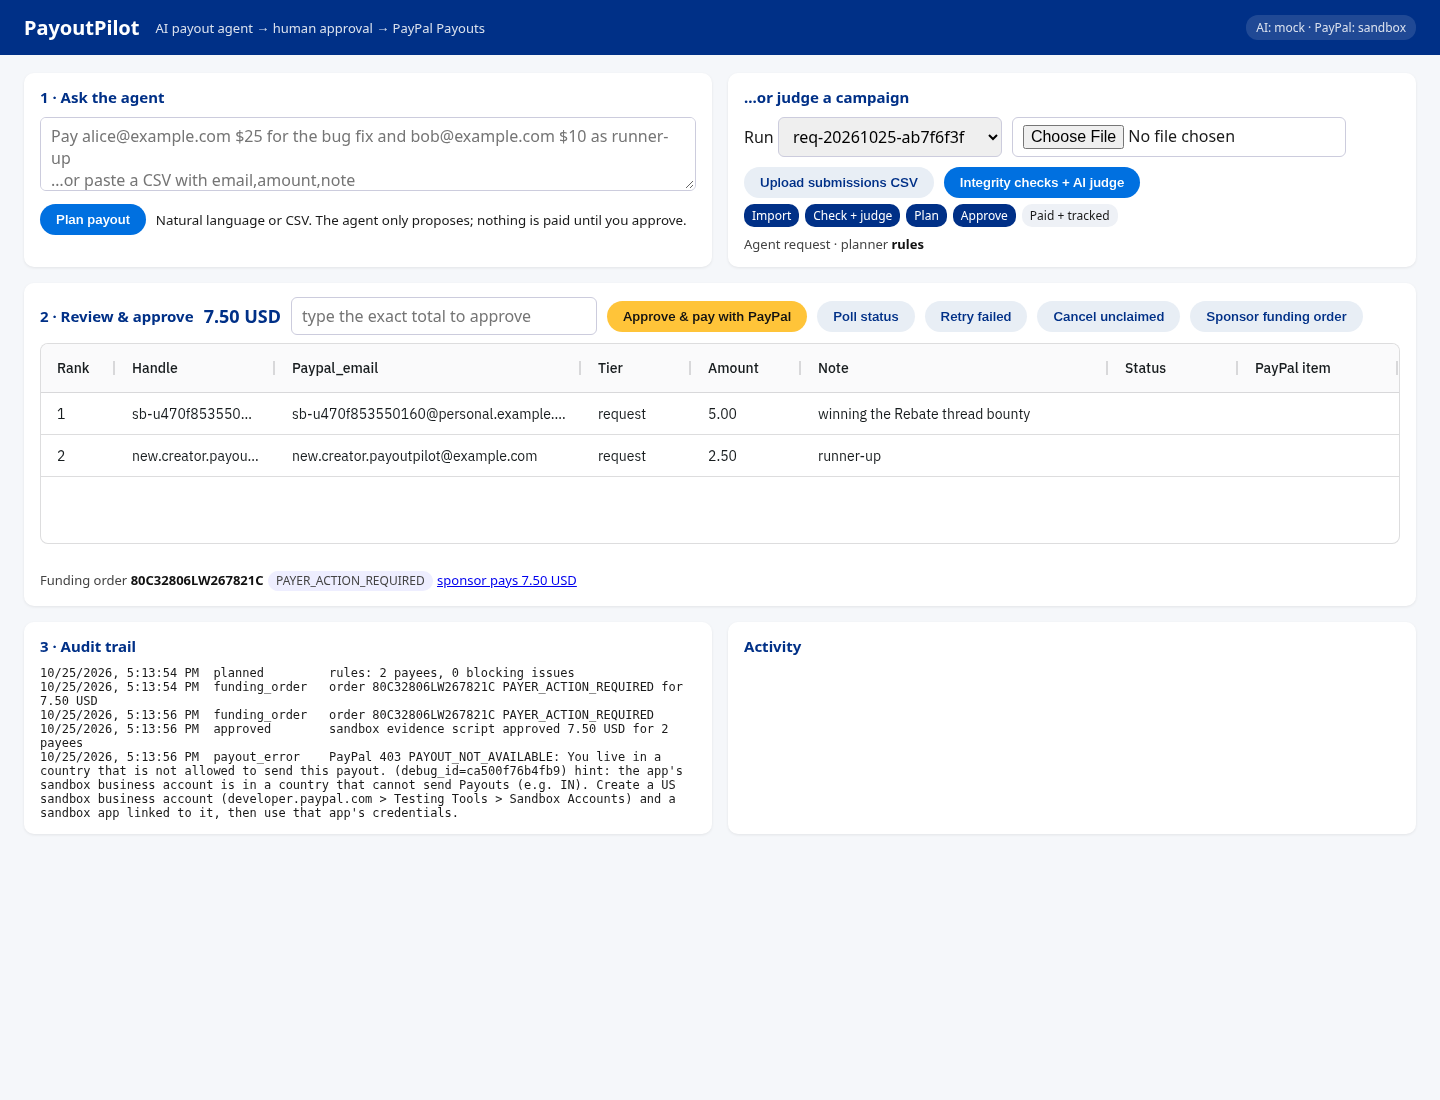
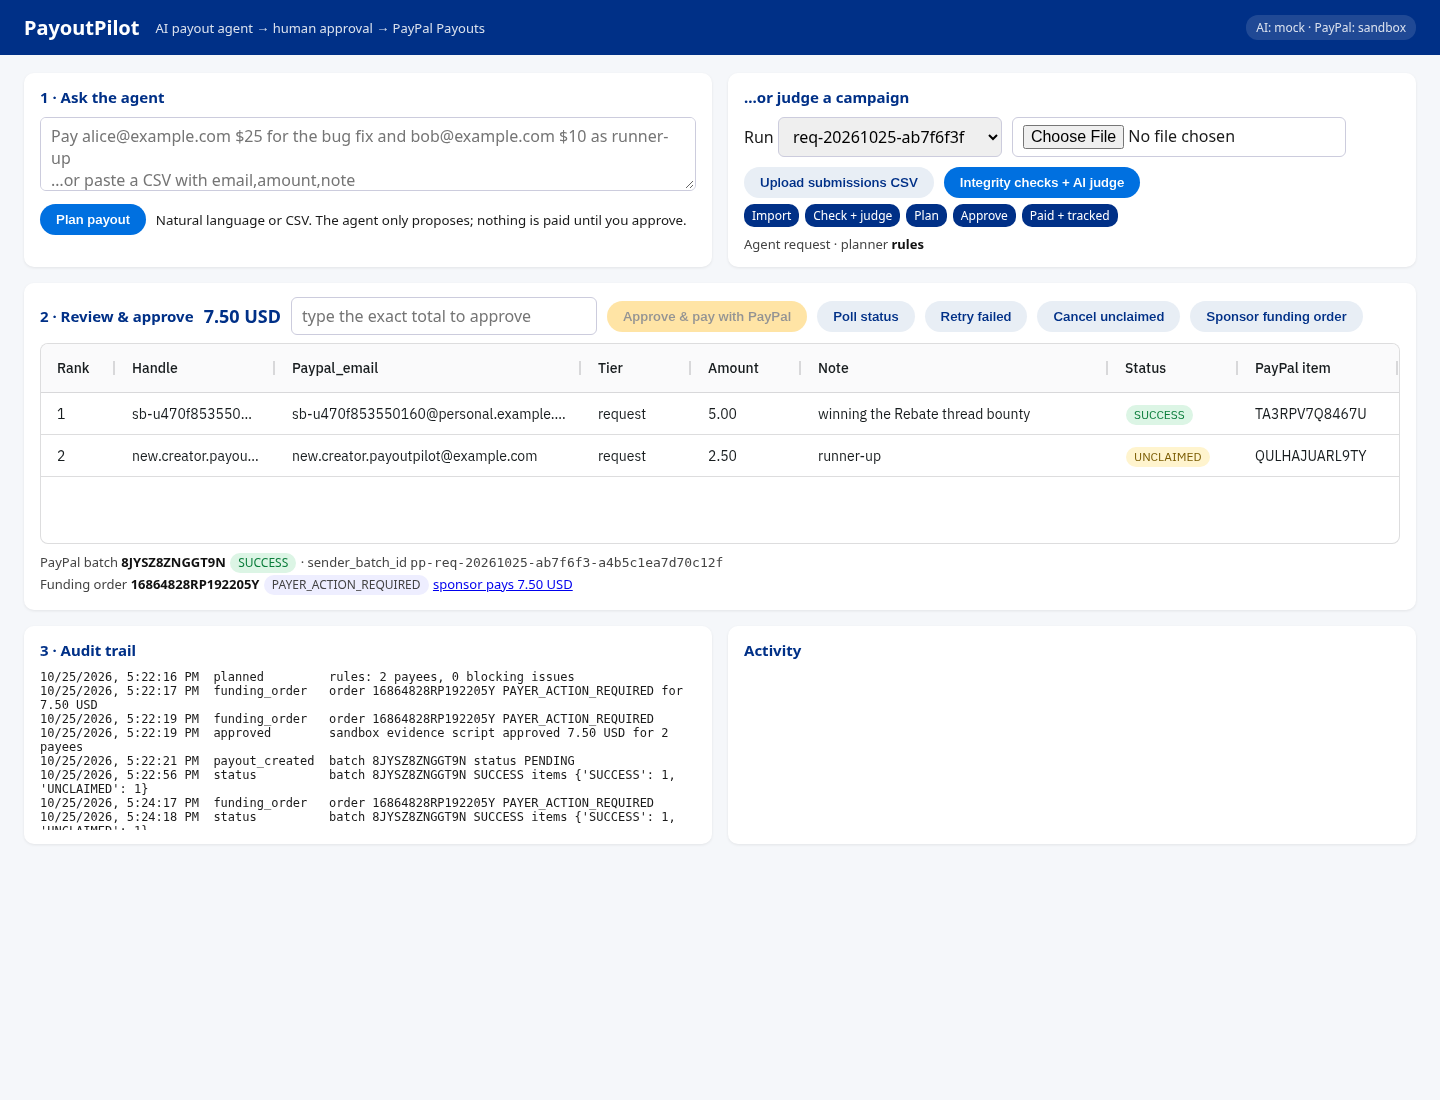
Live sandbox evidence: batch 8JYSZ8ZNGGT9N SUCCESS; per-step evidence labels, resume instead of re-paying, bounded 5xx retry for safe calls, cancel-unclaimed verifies item status

diff --git a/scripts/sandbox_evidence.py b/scripts/sandbox_evidence.py
@@ -3,6 +3,9 @@
     python scripts/sandbox_evidence.py            # needs PAYPAL_CLIENT_ID / PAYPAL_CLIENT_SECRET (sandbox)
                                                   # and PAYPAL_SANDBOX_PERSONAL (a sandbox personal account email)
 
+Re-running is safe: if this request was already paid, the saved run is resumed (status + cancel) instead of
+creating another batch. Set EVIDENCE_FRESH=1 to force a new run.
+
 Steps: OAuth2 token -> Orders v2 funding order for the prize pool -> natural-language payout request ->
 reviewed plan -> approval (scripted, sandbox only) -> Payouts batch -> status polling -> cancel UNCLAIMED.
 No secret or token is ever written; receiver emails are masked.
@@ -64,43 +67,64 @@ def main() -> int:
         llm = llm_from_env()
     except RuntimeError:
         llm = None
+    store = Store()
     st = agent.plan_request(text, llm, title="Rebate thread bounty (sandbox evidence run)")
+    resumed = False
+    try:
+        prev = store.get(st.campaign.id)
+        if prev.payout_batch_id and not os.environ.get("EVIDENCE_FRESH"):
+            st, resumed = prev, True  # never create a second batch for the same request: resume tracking instead
+    except KeyError:
+        pass
+    ev["resumed_existing_batch"] = resumed
     ev["steps"].append({"step": "plan_request", "planner": st.planner, "at": now(),
                         "request": text.replace(winner, mask_email(winner)),
                         "lines": [{"receiver": mask_email(l.paypal_email), "amount": str(l.amount), "note": l.note}
                                   for l in st.plan.lines], "total": str(st.plan.total), "warnings": st.warnings})
 
-    try:
-        o = pipeline.create_funding_order(st, pp)
-        o2 = pipeline.refresh_funding_order(st, pp)
-        ev["steps"].append({"step": "orders_v2_funding_order", "ok": True, "at": now(), "order_id": o["id"],
-                            "status": o2["status"], "amount": o["amount"], "currency": o["currency"],
-                            "approve_url_host": (o.get("approve_url") or "").split("/")[2] if o.get("approve_url") else None})
-    except PayPalError as e:
-        ev["steps"].append({"step": "orders_v2_funding_order", "ok": False, "at": now(), "error": str(e)})
+    def step(name: str, fn) -> bool:
+        try:
+            rec = fn() or {}
+            ev["steps"].append({"step": name, "ok": True, "at": now(), **rec})
+            return True
+        except PayPalError as e:
+            ev["steps"].append({"step": name, "ok": False, "at": now(), "http_status": e.status,
+                                "error": e.body.get("name") if isinstance(e.body, dict) else str(e.body)[:100],
+                                "debug_id": e.debug_id, "detail": str(e)})
+            return False
 
-    try:
+    def funding():
+        o = st.funding_order or pipeline.create_funding_order(st, pp)
+        o2 = pipeline.refresh_funding_order(st, pp)
+        return {"order_id": o["id"], "status": o2["status"], "amount": o["amount"], "currency": o["currency"],
+                "reused": bool(resumed), "approve_url_host": (o.get("approve_url") or "/ / ").split("/")[2]}
+
+    def create():
+        before = st.payout_batch_id
         res = pipeline.approve_and_pay(st, pp, st.plan.total, approved_by="sandbox evidence script")
-        ev["steps"].append({"step": "payouts_create_batch", "ok": True, "at": now(),
-                            "payout_batch_id": res["batch_header"]["payout_batch_id"],
-                            "sender_batch_id": res["batch_header"].get("sender_batch_header", {}).get("sender_batch_id"),
-                            "batch_status": res["batch_header"].get("batch_status")})
+        hdr = res["batch_header"]
+        return {"payout_batch_id": hdr["payout_batch_id"], "reused_existing": before is not None,
+                "sender_batch_id": hdr.get("sender_batch_header", {}).get("sender_batch_id"),
+                "batch_status": hdr.get("batch_status")}
+
+    def poll():
         status = pipeline.refresh_status(st, pp, wait=True, timeout=120)
         hdr = status.get("batch_header", {})
-        ev["steps"].append({"step": "payouts_poll_status", "ok": True, "at": now(),
-                            "batch_status": hdr.get("batch_status"), "amount": hdr.get("amount"),
-                            "fees": hdr.get("fees"), "items": redact_items(status)})
-        if pipeline.items_with(st, {"UNCLAIMED"}):
-            pipeline.cancel_unclaimed(st, pp)
-            status = pipeline.refresh_status(st, pp)
-            ev["steps"].append({"step": "payouts_cancel_unclaimed", "ok": True, "at": now(),
-                                "items": redact_items(status)})
-    except PayPalError as e:
-        ev["steps"].append({"step": "payouts_create_batch", "ok": False, "at": now(), "http_status": e.status,
-                            "error": (e.body.get("name") if isinstance(e.body, dict) else str(e.body)[:100]),
-                            "debug_id": e.debug_id, "detail": str(e)})
+        return {"payout_batch_id": st.payout_batch_id, "batch_status": hdr.get("batch_status"),
+                "time_created": hdr.get("time_created"), "time_completed": hdr.get("time_completed"),
+                "amount": hdr.get("amount"), "fees": hdr.get("fees"), "items": redact_items(status)}
 
-    Store().put(st)
+    def cancel():
+        done = pipeline.cancel_unclaimed(st, pp)
+        status = pipeline.refresh_status(st, pp)
+        return {"cancelled_items": [d.get("payout_item_id") for d in done], "items": redact_items(status)}
+
+    step("orders_v2_funding_order", funding)
+    if step("payouts_create_batch", create) and step("payouts_poll_status", poll):
+        if pipeline.items_with(st, {"UNCLAIMED"}):
+            step("payouts_cancel_unclaimed", cancel)
+
+    store.put(st)
     ev["finished"] = now()
     ev["campaign_state"] = f"data/{st.campaign.id}.json"
     out = json.dumps(ev, indent=2)

diff --git a/tests/test_paypal_http.py b/tests/test_paypal_http.py
@@ -82,7 +82,7 @@ def test_retries_5xx_with_same_request_id_and_refreshes_401():
         httpx.Response(503, json={"name": "SERVICE_UNAVAILABLE"}),
         httpx.Response(201, json={"batch_header": {"payout_batch_id": "B2", "batch_status": "PENDING"}})])
     st = agent.plan_request("Pay a@x.com $5")
-    res = PayPalClient("id", "secret").create_payout(st.plan, "s", "m")
+    res = PayPalClient("id", "secret", retry_backoff=0).create_payout(st.plan, "s", "m")
     ids = {c.request.headers["PayPal-Request-Id"] for c in route.calls}
     assert res["batch_header"]["payout_batch_id"] == "B2" and len(ids) == 1 and tok.call_count == 2
 
@@ -97,3 +97,43 @@ def test_client_repr_and_env_loader_never_leak(tmp_path, monkeypatch):
     import os
     assert os.environ["PAYPAL_CLIENT_ID"] == "fromenv" and os.environ["PAYPAL_ENV"] == "sandbox"
     assert mask_email("winner@example.com") == "wi***r@example.com"
+
+
+@respx.mock
+def test_cancel_unclaimed_retries_5xx_then_succeeds():
+    token_route()
+    cancel = respx.post(f"{SANDBOX}/v1/payments/payouts-item/I7/cancel").mock(side_effect=[
+        httpx.Response(500, json={"name": "INTERNAL_SERVICE_ERROR"}),
+        httpx.Response(200, json={"payout_item_id": "I7", "transaction_status": "RETURNED"})])
+    c = PayPalClient("id", "secret", retry_backoff=0)
+    assert c.cancel_unclaimed("I7")["transaction_status"] == "RETURNED" and cancel.call_count == 2
+
+
+@respx.mock
+def test_retries_are_bounded_and_unsafe_posts_are_not_retried():
+    token_route()
+    always = respx.post(f"{SANDBOX}/v1/payments/payouts-item/I8/cancel").mock(
+        return_value=httpx.Response(500, json={"name": "INTERNAL_SERVICE_ERROR"}))
+    c = PayPalClient("id", "secret", retry_backoff=0)
+    with pytest.raises(PayPalError):
+        c.cancel_unclaimed("I8")
+    assert always.call_count == 4  # 1 try + 3 bounded retries
+    plain = respx.post(f"{SANDBOX}/v1/unsafe").mock(return_value=httpx.Response(503, json={"name": "X"}))
+    with pytest.raises(PayPalError):
+        c._request("POST", "/v1/unsafe", json={})
+    assert plain.call_count == 1  # no request id, not idempotent: never repeated
+
+
+@respx.mock
+def test_pipeline_cancel_trusts_item_status_after_persistent_5xx():
+    token_route()
+    respx.post(f"{SANDBOX}/v1/payments/payouts-item/I5/cancel").mock(
+        return_value=httpx.Response(500, json={"name": "INTERNAL_SERVICE_ERROR"}))
+    respx.get(f"{SANDBOX}/v1/payments/payouts-item/I5").mock(
+        return_value=httpx.Response(200, json={"payout_item_id": "I5", "transaction_status": "RETURNED"}))
+    st = agent.plan_request("Pay a@x.com $5")
+    st.payout_batch_id = "B5"
+    st.payout_status = {"items": [{"payout_item_id": "I5", "transaction_status": "UNCLAIMED",
+                                   "payout_item": {"receiver": "a@x.com", "sender_item_id": "x"}}]}
+    out = pipeline.cancel_unclaimed(st, PayPalClient("id", "secret", retry_backoff=0))
+    assert out[0]["transaction_status"] == "RETURNED" and st.events[-1].kind == "cancel_unclaimed"

diff --git a/payoutpilot/paypal.py b/payoutpilot/paypal.py
@@ -121,6 +121,7 @@ class PayPalClient(_Polling):
     client_secret: str
     base_url: str = SANDBOX
     timeout: float = 30.0
+    retry_backoff: float = 1.5
     _token: str | None = field(default=None, repr=False)
     _token_exp: float = 0.0
     transport: httpx.BaseTransport | None = None
@@ -157,7 +158,9 @@ class PayPalClient(_Polling):
         return self._token
 
     def _request(self, method: str, path: str, *, json: dict | None = None, request_id: str | None = None,
-                 retries: int = 2) -> dict:
+                 retries: int = 3, idempotent: bool = False) -> dict:
+        """429/5xx are retried (bounded, linear backoff) only when a repeat cannot double-pay: GETs, writes that
+        carry a PayPal-Request-Id, and calls marked idempotent (e.g. cancelling an unclaimed item)."""
         headers = {"Authorization": f"Bearer {self.token()}", "Content-Type": "application/json",
                    "Prefer": "return=representation"}
         if request_id:
@@ -169,9 +172,9 @@ class PayPalClient(_Polling):
                 self._token = None
                 headers["Authorization"] = f"Bearer {self.token()}"
                 continue
-            # 429/5xx are safe to retry because every write carries a PayPal-Request-Id
-            if (r.status_code == 429 or r.status_code >= 500) and attempt < retries and (request_id or method == "GET"):
-                time.sleep(1.5 * (attempt + 1))
+            safe = bool(request_id) or idempotent or method == "GET"
+            if (r.status_code == 429 or r.status_code >= 500) and attempt < retries and safe:
+                time.sleep(self.retry_backoff * (attempt + 1))
                 continue
             break
         self._raise(r)
@@ -200,7 +203,7 @@ class PayPalClient(_Polling):
 
     def cancel_unclaimed(self, payout_item_id: str) -> dict:
         """Return the money of an UNCLAIMED item to the sender."""
-        return self._request("POST", f"/v1/payments/payouts-item/{payout_item_id}/cancel")
+        return self._request("POST", f"/v1/payments/payouts-item/{payout_item_id}/cancel", idempotent=True)
 
     # Orders v2: the sponsor funds the prize pool
     def create_order(self, reference_id: str, amount: Decimal, currency: str, description: str) -> dict:

diff --git a/payoutpilot/pipeline.py b/payoutpilot/pipeline.py
@@ -123,10 +123,22 @@ def retry_failed(st: CampaignState, paypal) -> dict | None:
 
 def cancel_unclaimed(st: CampaignState, paypal) -> list[dict]:
     """Return money for items nobody claimed (e.g. the winner has no PayPal account yet)."""
+    from .paypal import PayPalError
+
     out = []
     for it in items_with(st, {"UNCLAIMED"}):
-        out.append(paypal.cancel_unclaimed(it["payout_item_id"]))
-        st.log("cancel_unclaimed", f"item {it['payout_item_id']} returned to sender")
+        iid = it["payout_item_id"]
+        try:
+            res = paypal.cancel_unclaimed(iid)
+        except PayPalError as e:
+            # A 5xx can still have cancelled the item server-side: trust the item's real status, not the error.
+            cur = paypal.get_payout_item(iid)
+            if cur.get("transaction_status") != "RETURNED":
+                st.log("cancel_error", f"item {iid}: {e}"[:500])
+                raise
+            res = cur
+        out.append(res)
+        st.log("cancel_unclaimed", f"item {iid} {res.get('transaction_status', 'RETURNED')}, money back to sender")
     return out
 
 

diff --git a/README.md b/README.md
@@ -18,7 +18,7 @@ never claim, a double click that pays twice. PayoutPilot automates the boring pa
 | **Plan (agent)** | Two planners: a deterministic rule parser (always on, offline) and an optional LLM planner (Gemini / Groq / local Ollama). Every receiver and amount the model returns must literally appear in the request, so a hallucinated or injected payee can never reach PayPal. The two plans are diffed and any disagreement is shown. |
 | **Judge (campaigns)** | Deterministic integrity checks first (missing fields, invalid emails, same payee twice, same link twice, near-duplicate text, wallet/seed-phrase bait), then an AI judge scores each clean entry against the rubric with reasons and a second **reviewer pass** checks the scores. An allocator turns the ranking into prize tiers within the budget. |
 | **Approve (human)** | AG Grid dashboard: exclude anyone, see every warning, then approve by typing the **exact total**. Per-payee and per-batch caps (`PAYOUTPILOT_MAX_ITEM`, `PAYOUTPILOT_MAX_BATCH`). Once paid, the plan is frozen. |
-| **Pay (PayPal Payouts)** | OAuth2 client credentials, `POST /v1/payments/payouts` with a deterministic `sender_batch_id` and the same value as `PayPal-Request-Id`, so a retry or double click can never pay twice. 401 refreshes the token once, 429/5xx retry with the same request id. |
+| **Pay (PayPal Payouts)** | OAuth2 client credentials, `POST /v1/payments/payouts` with a deterministic `sender_batch_id` and the same value as `PayPal-Request-Id`, so a retry or double click can never pay twice. 401 refreshes the token once, 429/5xx get a bounded retry (3 retries, linear backoff) only when repeating is safe: GETs, writes with a request id, and idempotent cancels. |
 | **Track** | Polls `GET /v1/payments/payouts/{id}` until the batch and every item settle (SUCCESS / UNCLAIMED / FAILED / …). **Retry failed** re-sends only FAILED/BLOCKED/DENIED items in a new idempotent batch (`-rN`). **Cancel unclaimed** returns money for winners without a PayPal account (`POST /v1/payments/payouts-item/{id}/cancel`). |
 | **Fund (PayPal Orders v2)** | The sponsor pays the prize pool to the organiser: `POST /v2/checkout/orders` for the plan total returns a PayPal approval link; capture after approval. |
 | **Audit** | Every step (checked, judged, planned, approved by whom, batch created, status, retries, cancels, errors with PayPal debug id) is stored with the run. |
@@ -87,14 +87,24 @@ Live mode is locked unless `PAYOUTPILOT_ALLOW_LIVE=1` is set on purpose.
 
 ## Evidence
 
-**PayPal sandbox, 2026-10-25 17:13 IST** ([evidence/sandbox-run.json](evidence/sandbox-run.json), redacted):
+**Live PayPal sandbox run, 25 Oct 2026 (IST)** — US sandbox business app, redacted log in
+[evidence/sandbox-run.json](evidence/sandbox-run.json):
 
-| Step | Result |
-| --- | --- |
-| OAuth2 client credentials | 200, token cached for ~9 h |
-| Agent plan from natural language | 2 payees, 7.50 USD, 0 warnings (rule planner) |
-| Orders v2 sponsor funding order | `80C32806LW267821C`, status `PAYER_ACTION_REQUIRED`, approval link on www.sandbox.paypal.com |
-| Payouts batch create | `403 PAYOUT_NOT_AVAILABLE` (debug_id `ca500f76b4fb9`): the app's default sandbox business account is registered in India, which cannot send Payouts. Nothing was sent; the error, debug id and fix are in the audit trail. Re-run with a US sandbox business app (see Setup). |
+| Time (IST) | Step | Result |
+| --- | --- | --- |
+| 17:22:16 | OAuth2 client credentials | 200, token cached ~9 h |
+| 17:22:16 | Agent plan from natural language | 2 payees, 7.50 USD, 0 warnings (rule planner) |
+| 17:22:19 | Orders v2 sponsor funding order | `16864828RP192205Y` for 7.50 USD, `PAYER_ACTION_REQUIRED` (approval link on www.sandbox.paypal.com) |
+| 17:22:20 | Approve → Payouts batch create | **`8JYSZ8ZNGGT9N`**, `PENDING`, sender_batch_id `pp-req-20261025-ab7f6f3-a4b5c1ea7d70c12f` |
+| 17:22:53 | Status polling until settled | batch **`SUCCESS`**, 7.50 USD, fees 0.35 USD |
+| | item `TA3RPV7Q8467U` | 5.00 USD → sandbox personal account: **`SUCCESS`** (fee 0.10) |
+| | item `QULHAJUARL9TY` | 2.50 USD → unregistered address: **`UNCLAIMED`** (`RECEIVER_UNREGISTERED`, fee 0.25) |
+| 17:22:58 – 17:27:49 | Cancel unclaimed (`POST /v1/payments/payouts-item/QULHAJUARL9TY/cancel`) | sandbox answers `500 INTERNAL_SERVICE_ERROR` on every attempt, with bounded retries (debug_ids `f33391140f160`, `f25336755330e`, `f4435458a79a4`). Item stays `UNCLAIMED`; PayPal auto-returns unclaimed funds after 30 days. |
+
+Exactly one batch was created: re-running `scripts/sandbox_evidence.py` resumes the saved run (poll + cancel)
+instead of paying again, and a repeated approval returns the same batch (deterministic `sender_batch_id` +
+`PayPal-Request-Id`). An earlier run against an India sandbox business app was refused with
+`403 PAYOUT_NOT_AVAILABLE`; PayoutPilot now explains that error and how to fix it.
 
 ![Real sandbox run](docs/screenshots/dashboard-real-sandbox.png)
 
